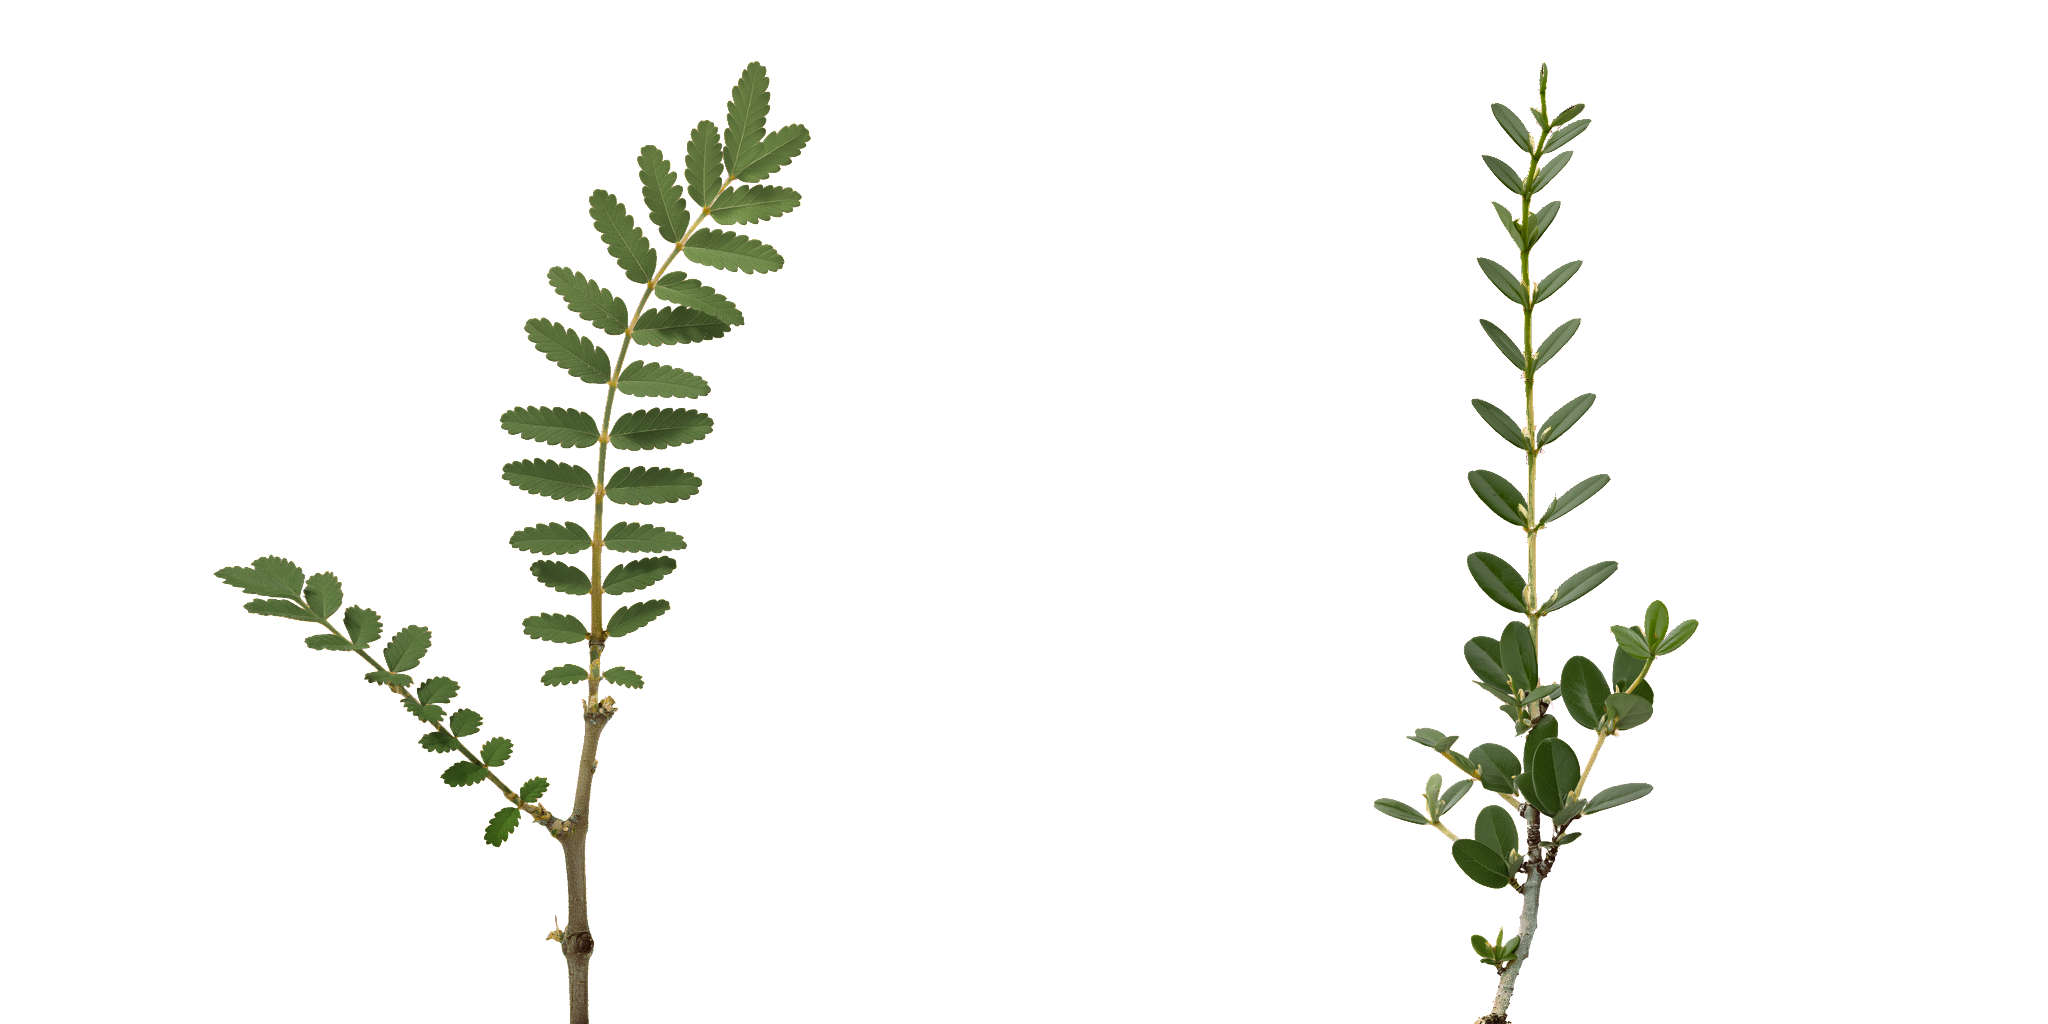
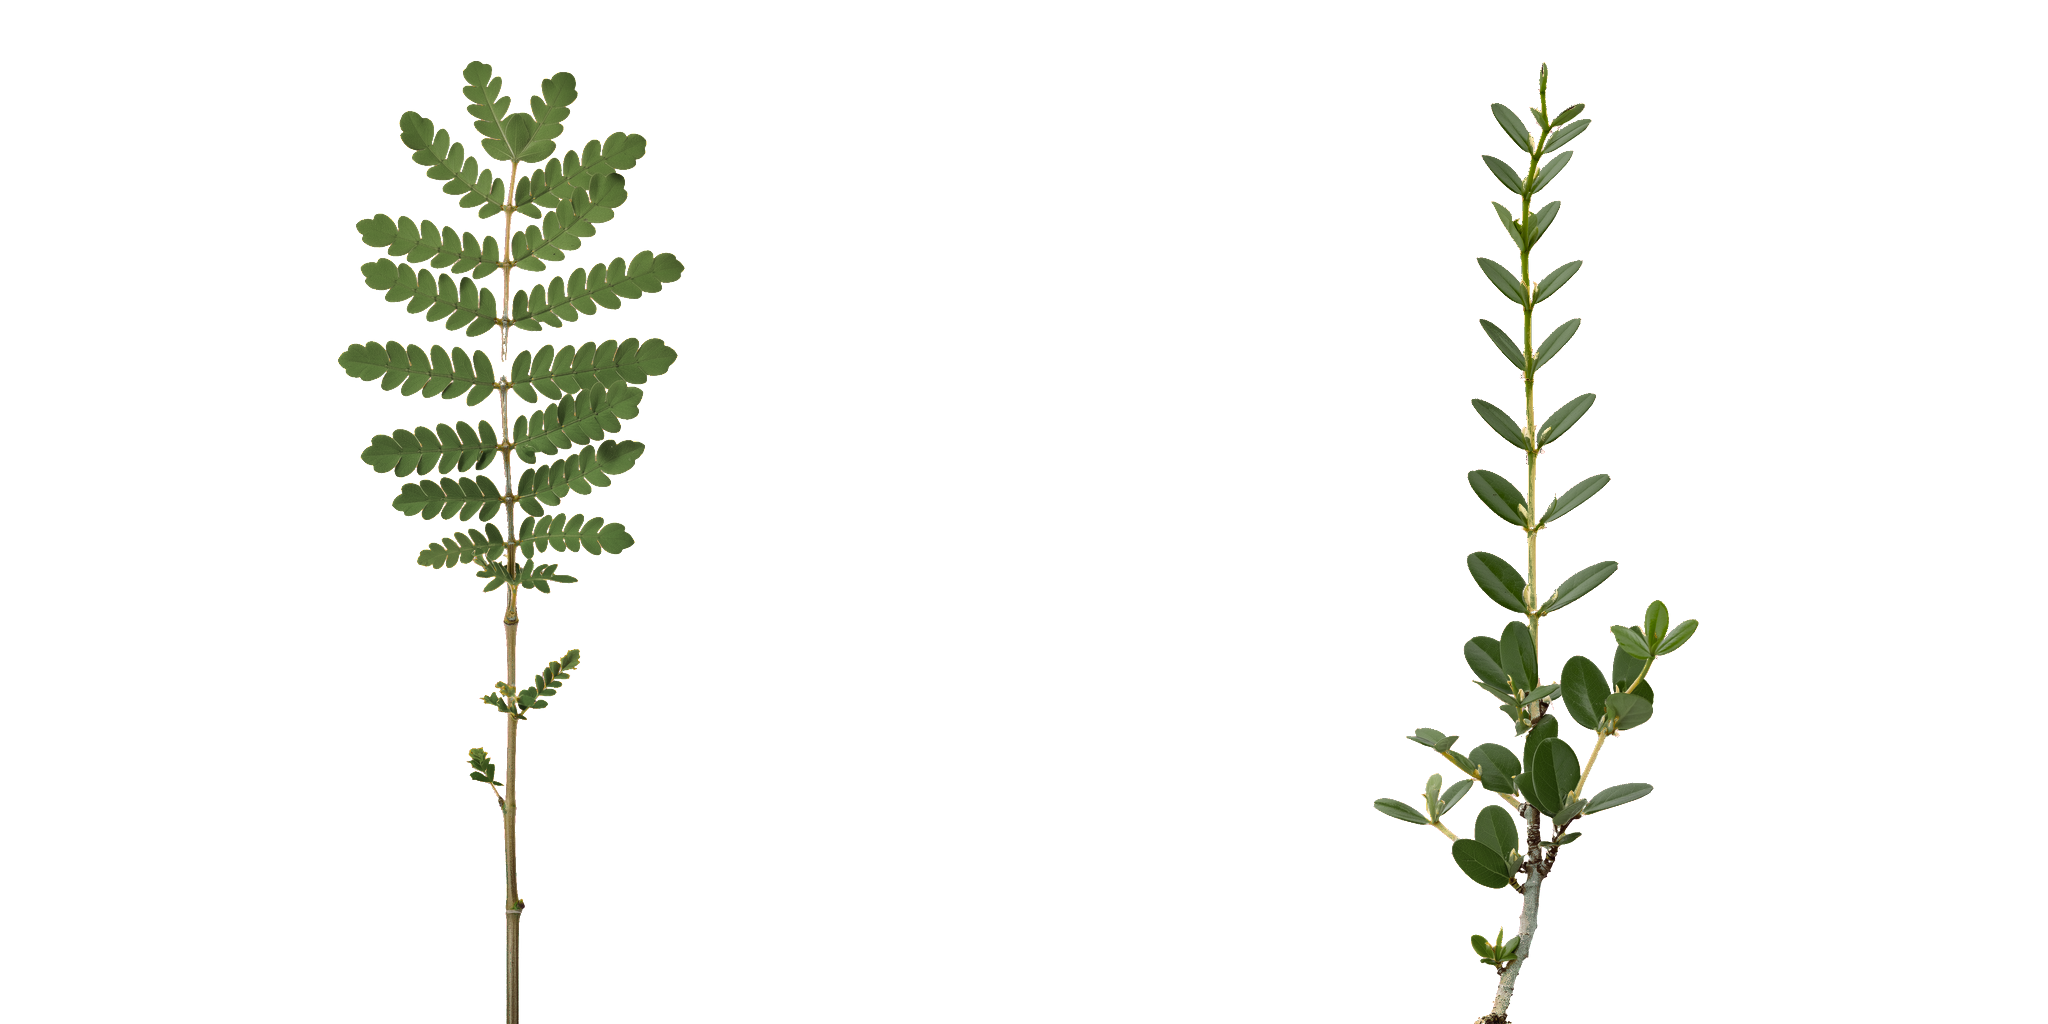
Shrub cards re-rolled ($0.56, 3 images); the leafy sprig recipe's coverage floor 0.08 -> 0.05 (the test default: a sprig is thin): ground_textures 287 / 287

Changed region(s): [[0.0938, 0.0625, 0.4062, 1.0]]

diff --git a/docs/ground_match/gen_report.md b/docs/ground_match/gen_report.md
@@ -10,7 +10,7 @@ Written by `tools/vfxgen/groundgen.py` (tool v2). Images generated this run: 0, 
 | grass_tall | blade_atlas | generated | ok; root/mid/tip #565535/#62613c/#65633b · #51512f/#5a5a31/#6e6b41 · #50502f/#5c5c35/- · #4f4f2f/#61613d/#656339 |
 | grass_tussock | blade_atlas | generated | ok; root/mid/tip #67674e/#76744c/#817d55 · #696b48/#707046/#7f7c55 · #656544/#76754d/#83815a · #565a40/#66694a/#787554 |
 | reed | blade_atlas | generated | ok; root/mid/tip #515334/#5e623a/- · #535536/#5f623a/#737048 |
-| shrub_leafy | blade_atlas | generated | 1 failing cell check(s); root/mid/tip #505b33/#566a3a/#62763f · #4d5c30/#5a6c3d/#677843 |
+| shrub_leafy | blade_atlas | generated | ok; root/mid/tip #525e33/#566b39/#63783e · #4d5c30/#5a6c3d/#677843 |
 | wheat | blade_atlas | generated | ok; root/mid/tip #73724c/#807e51/- · -/-/- |
 | dirt | terrain_layer | generated | mean #635a45 (target #5e5540, max delta 0.02), seam 0.8135 |
 | dirt_dry | terrain_layer | generated | mean #8e8361 (target #8c7f5c, max delta 0.02), seam 0.9477 |
